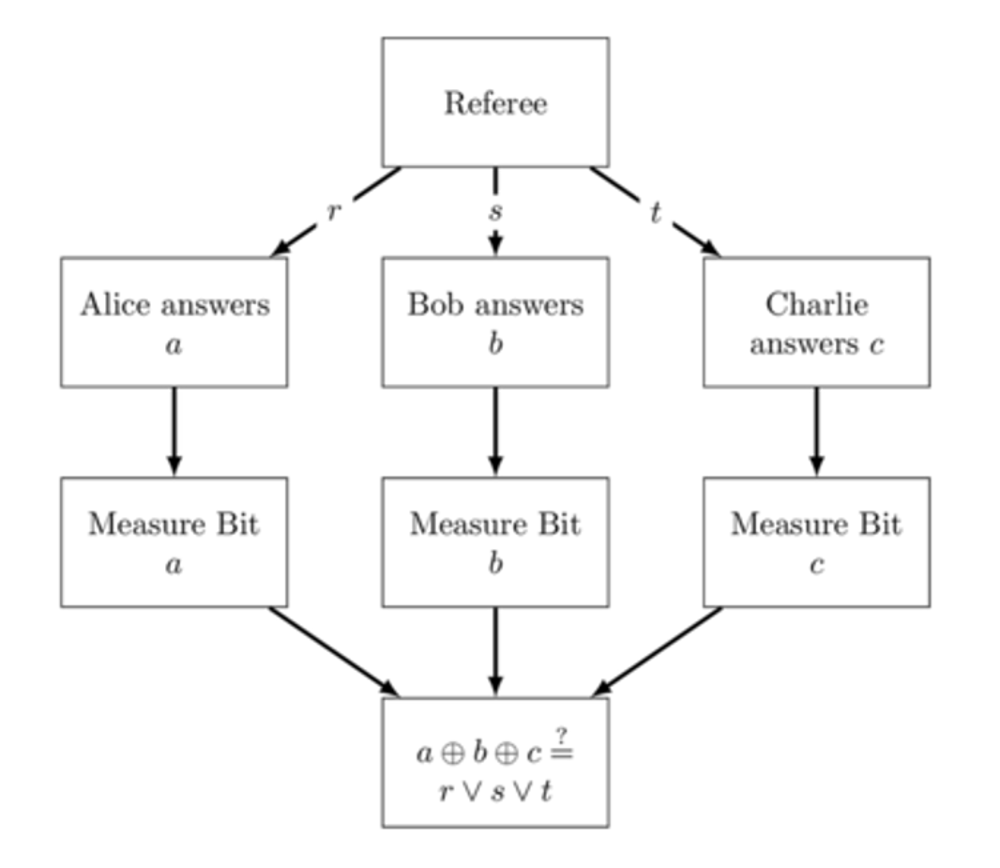
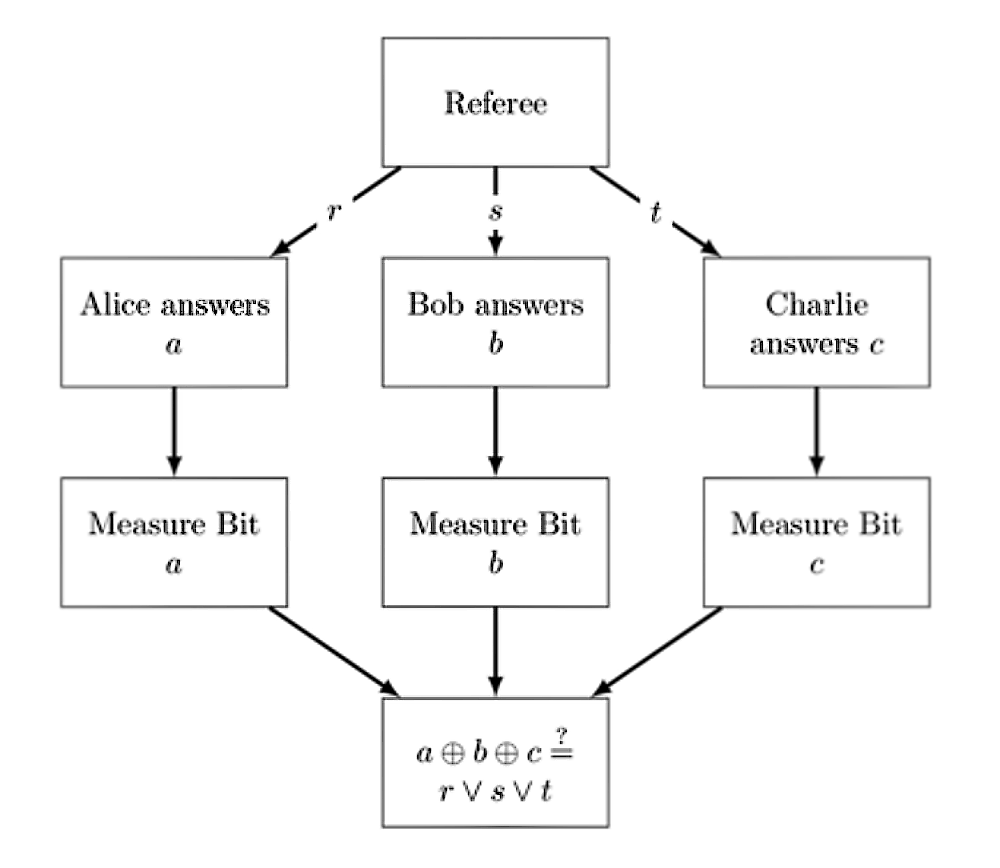
sharpen ghz-game image

diff --git a/articles/ghz-game/index.html b/articles/ghz-game/index.html
@@ -86,7 +86,8 @@
                 
                 <div class="image">
                     <p style="text-align:center;">
-                        <img src="ghz-game.png" alt="Diagrammatic description of classical GHZ game" class="center">
+                        <img src="ghz-game.png" alt="Diagrammatic description
+                        of classical GHZ game" class="image">
                     </p>
                 </div>
                 
